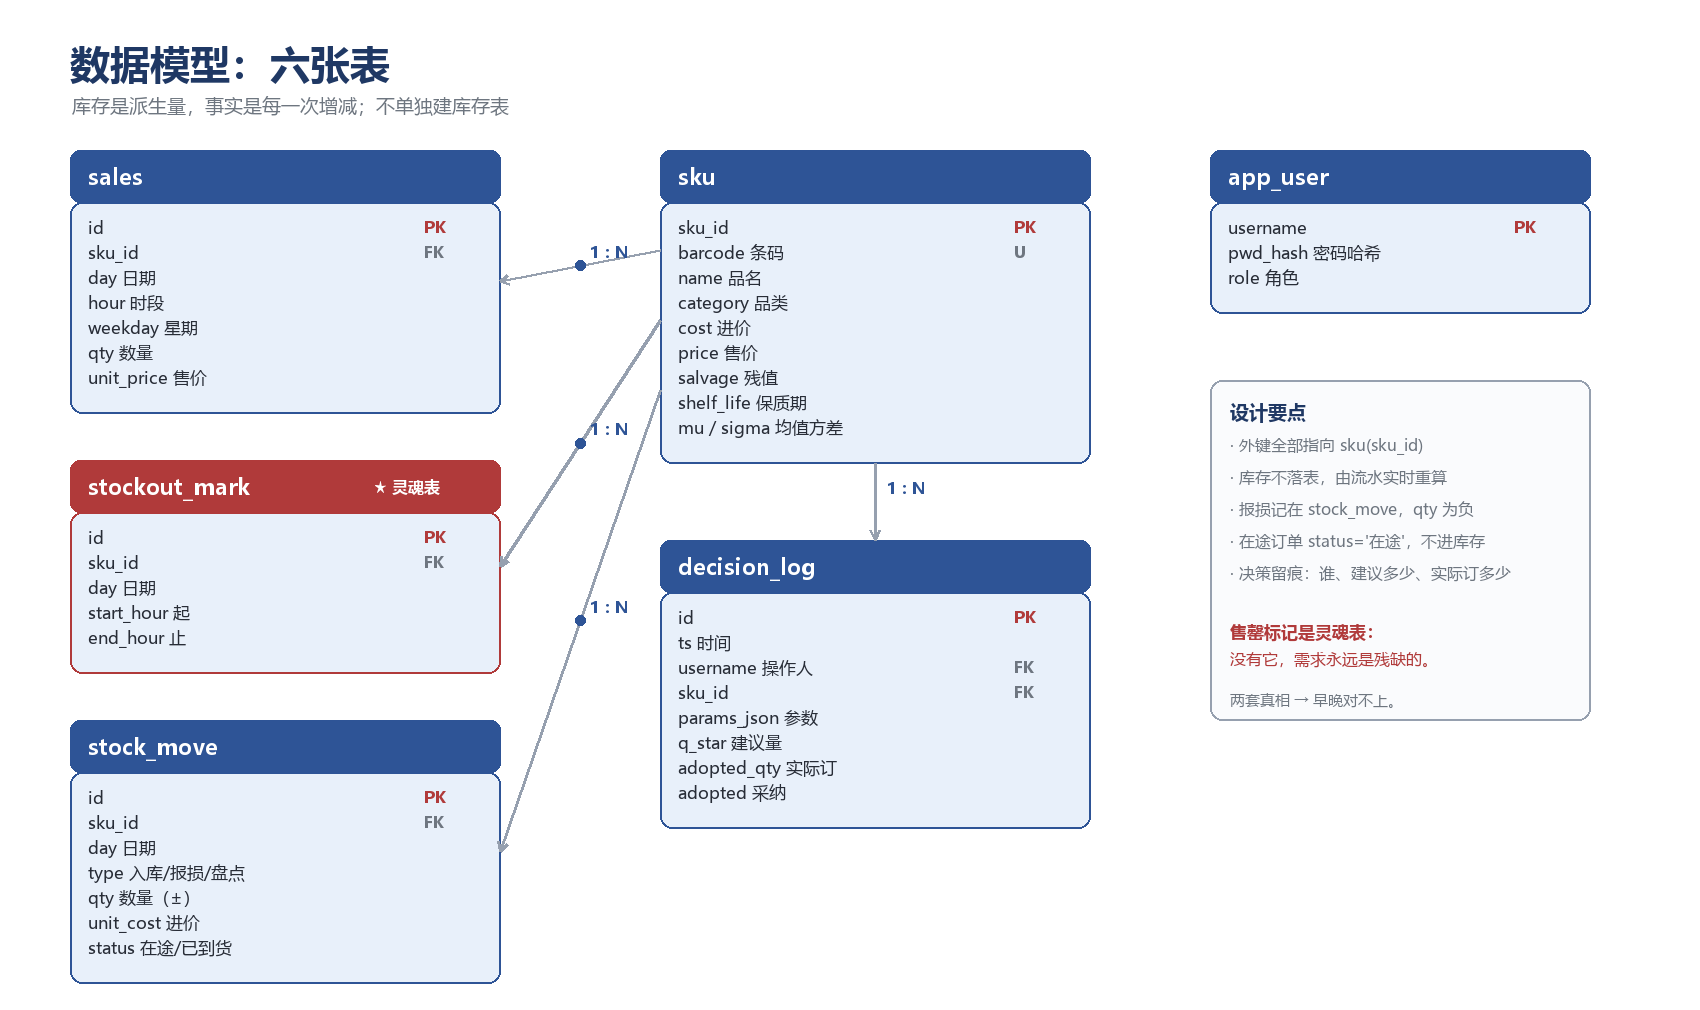
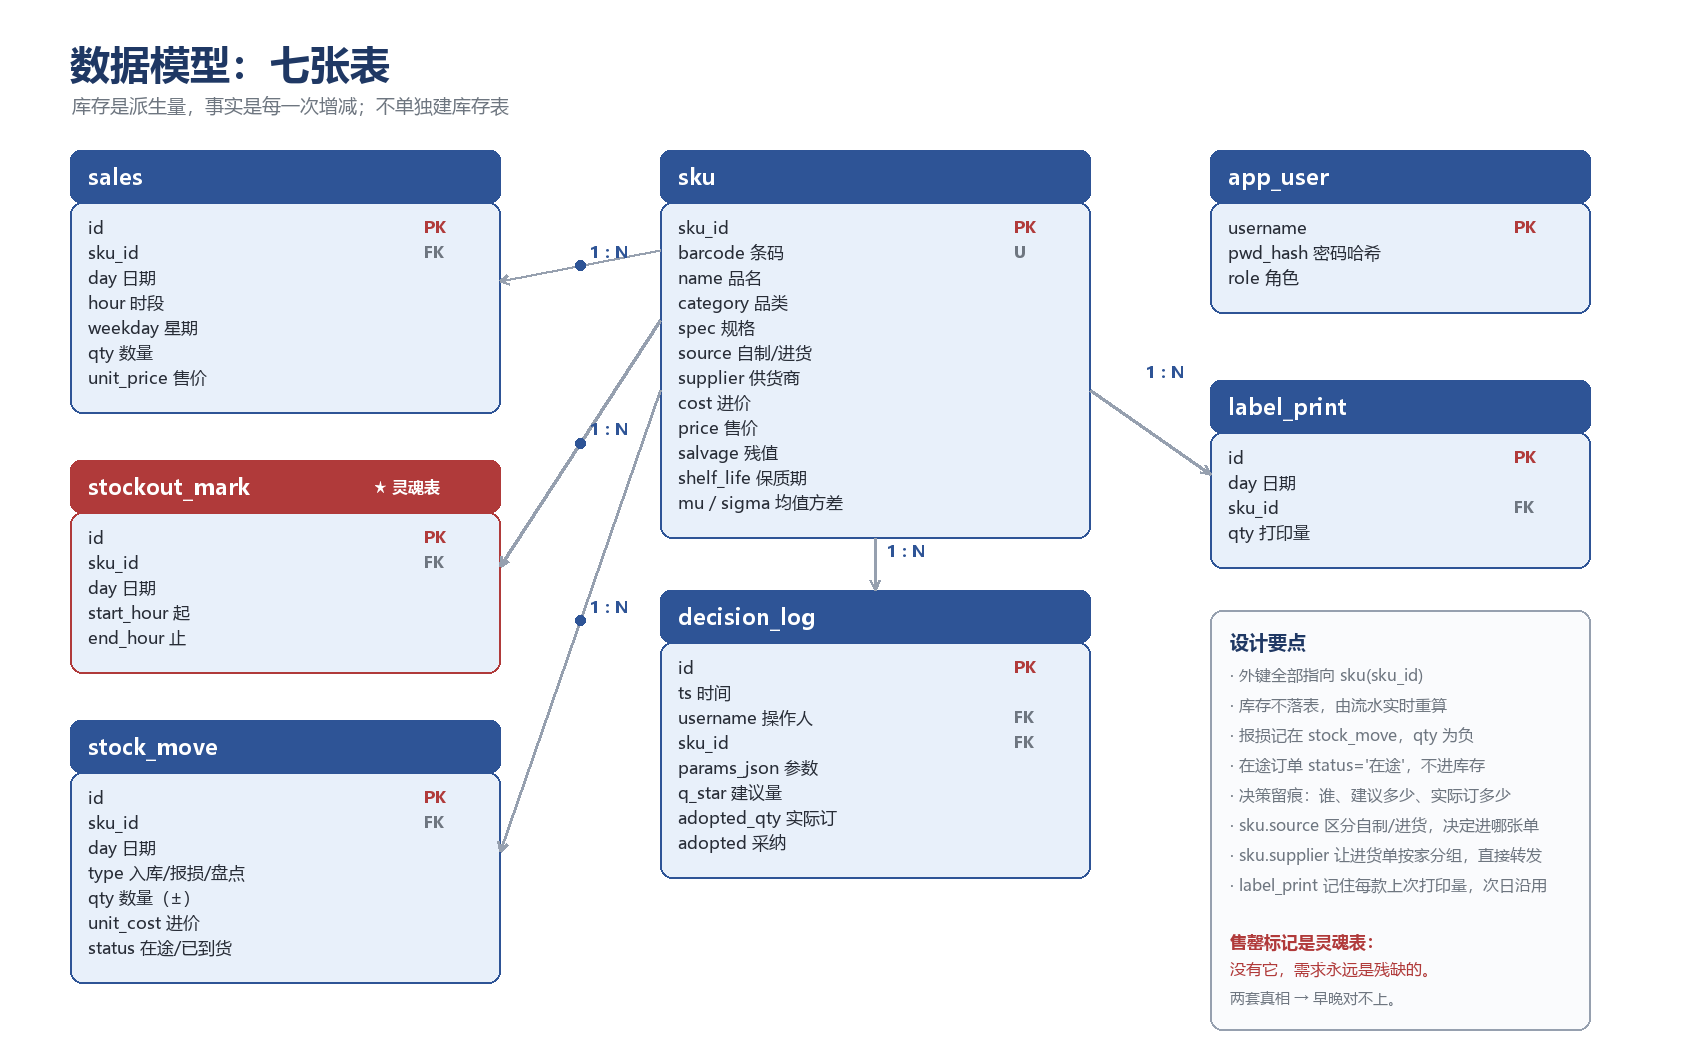
docs: IPO/ER/流程图同步到八页（补建档导入、供货商、标签打印）

diff --git a/scripts/draw_diagrams.py b/scripts/draw_diagrams.py
@@ -69,35 +69,38 @@ def chip(d, right, y, s, fill, fg):
 
 
 def draw_ipo():
-    W, H = 1680, 1030
+    W, H = 1680, 1220
     img = Image.new("RGB", (W, H), WHITE)
     d = ImageDraw.Draw(img)
 
-    d.text((70, 34), "IPO 模型：订货决策系统的八页实现", font=f(FB, 40), fill=NAVY)
+    d.text((70, 34), "IPO 模型：订货决策系统的八个页面", font=f(FB, 40), fill=NAVY)
     d.text((72, 90), "输入 → 处理 → 输出　三列是整体映射，不是逐行对应；框右上角标的是它落在哪一页",
            font=f(FR, 18), fill=GREY)
 
-    CW, CH, GAP = 460, 122, 152
+    CW, CH, GAP = 460, 112, 138
     TOP, HEAD = 160, 84
 
     cols = [
-        dict(x=70, title="输入 INPUT", note="三个入口页：收银、记录、设置",
+        dict(x=70, title="输入 INPUT", note="四个入口：收银、导入、收银台账、设置",
              fill=(236, 243, 250), edge=BLUE, chipbg=(219, 231, 247),
-             items=[("扫码流水", "码 → 单品 × 件数 × 时段", "收银页"),
-                    ("到货与报损", "入库 / 在途 / 报损 / 盘点", "记录页"),
-                    ("售罄标记", "哪一款、几点卖光（一键）", "记录页"),
-                    ("商品档案", "进价 / 售价 / 残值 / 保质期", "设置页")]),
+             items=[("结账流水", "扫码入单，或导入历史销售 CSV", "收银 · 导入"),
+                    ("售罄标记", "哪一款、几点卖光（一键）", "收银页"),
+                    ("到货与报损", "入库 / 在途 / 报损 / 盘点", "收银·台账"),
+                    ("商品档案", "分类 / 自制或进货 / 进价售价 / 供货商", "导入 · 设置"),
+                    ("打印记录", "每款上次打了多少枚，次日沿用", "标签页")]),
         dict(x=610, title="处理 PROCESS", note="每天重算：μ → Q* → 建议 → 明日实测 → 回到 μ",
              fill=(240, 247, 240), edge=(58, 118, 78), chipbg=(226, 240, 228),
              items=[("需求补齐", "卖光后的缺口 × 同期时段销量率，还原真实需求", "core/pipeline"),
                     ("基线 + 趋势", "同星期几均值 × 近期趋势 → μ（均值）", "core/pipeline"),
                     ("报童模型", "临界比 → z　　Q* = μ + z·σ", "core/order"),
-                    ("分档与诊断", "数据就绪度三档 + 品类订货偏差", "core/readiness")]),
-        dict(x=1150, title="输出 OUTPUT", note="四个界面：每一框都能在屏幕上点到",
+                    ("分档与诊断", "数据就绪度三档 + 品类订货偏差", "core/readiness"),
+                    ("日结判定", "账实不符 / 剩余偏多 / 提前售罄 + 次日清单", "core/close")]),
+        dict(x=1150, title="输出 OUTPUT", note="五个界面：每一框都能在屏幕上点到",
              fill=(252, 244, 236), edge=GOLD, chipbg=(248, 232, 213),
-             items=[("建议订货量", "保守 / 正常 / 积极 + 报童最优量 Q*", "订货页"),
+             items=[("备货清单", "进货按供货商分组导出，自制出排产单", "今日页"),
+                    ("建议订货量", "保守 / 正常 / 积极 + 报童最优量 Q*", "订货页"),
                     ("错在哪（复盘）", "按建议订会差多少：省多少、代价怎么换", "复盘页"),
-                    ("经营看板", "卖了多少 vs 进了多少、品类偏差、三件事", "看板页"),
+                    ("经营看板", "卖了多少 vs 进了多少、品类偏差", "看板页"),
                     ("标签与条码", "打印标签 → 扫码收银 → 回到输入", "标签页")]),
     ]
 
@@ -114,14 +117,14 @@ def draw_ipo():
             chip(d, x + CW - 12, by + CH - 30, page, c["chipbg"], GREY)
 
     # 两条大箭头：表达“整列流向整列”，而不是逐行对应
-    ay = TOP + HEAD + 16 + CH // 2 + GAP
+    ay = 560
     for x in (534, 1074):
         d.line([(x, ay), (x + 52, ay)], fill=BLUE, width=6)
         d.polygon([(x + 52, ay - 15), (x + 72, ay), (x + 52, ay + 15)], fill=BLUE)
 
     # 反馈回边：决策留痕与实际销量回灌成样本
-    bottom = TOP + HEAD + 16 + 3 * GAP + CH
-    ry = bottom + 62
+    bottom = TOP + HEAD + 16 + 5 * GAP + CH
+    ry = bottom + 70
     d.line([(1150 + CW / 2, bottom), (1150 + CW / 2, ry)], fill=(58, 118, 78), width=4)
     d.line([(1150 + CW / 2, ry), (300, ry)], fill=(58, 118, 78), width=4)
     d.line([(300, ry), (300, bottom + 4)], fill=(58, 118, 78), width=4)
@@ -141,11 +144,11 @@ def draw_ipo():
 
 # ---------------------------------------------------------------- ER
 def draw_er():
-    W, H = 1700, 1010
+    W, H = 1700, 1050
     img = Image.new("RGB", (W, H), WHITE)
     d = ImageDraw.Draw(img)
 
-    d.text((70, 36), "数据模型：六张表", font=f(FB, 40), fill=NAVY)
+    d.text((70, 36), "数据模型：七张表", font=f(FB, 40), fill=NAVY)
     d.text((72, 92), "库存是派生量，事实是每一次增减；不单独建库存表",
            font=f(FR, 19), fill=GREY)
 
@@ -161,15 +164,19 @@ def draw_er():
                                       ("type 入库/报损/盘点", ""), ("qty 数量（±）", ""),
                                       ("unit_cost 进价", ""), ("status 在途/已到货", "")]),
         "sku": (660, 150, 430, [("sku_id", "PK"), ("barcode 条码", "U"), ("name 品名", ""),
-                                ("category 品类", ""), ("cost 进价", ""), ("price 售价", ""),
+                                ("category 品类", ""), ("spec 规格", ""),
+                                ("source 自制/进货", ""), ("supplier 供货商", ""),
+                                ("cost 进价", ""), ("price 售价", ""),
                                 ("salvage 残值", ""), ("shelf_life 保质期", ""),
                                 ("mu / sigma 均值方差", "")]),
-        "decision_log": (660, 540, 430, [("id", "PK"), ("ts 时间", ""),
+        "decision_log": (660, 590, 430, [("id", "PK"), ("ts 时间", ""),
                                          ("username 操作人", "FK"), ("sku_id", "FK"),
                                          ("params_json 参数", ""), ("q_star 建议量", ""),
                                          ("adopted_qty 实际订", ""), ("adopted 采纳", "")]),
         "app_user": (1210, 150, 380, [("username", "PK"), ("pwd_hash 密码哈希", ""),
                                       ("role 角色", "")]),
+        "label_print": (1210, 380, 380, [("id", "PK"), ("day 日期", ""),
+                                         ("sku_id", "FK"), ("qty 打印量", "")]),
     }
 
     geo = {}
@@ -208,19 +215,26 @@ def draw_er():
     arrow(d, (sx + sw / 2, sy + sh), (dx + dw / 2, dy), color=LINE, w=3, head=10)
     d.text((sx + sw / 2 + 12, (sy + sh + dy) / 2 - 24), "1 : N", font=f(FB, 16), fill=BLUE)
 
-    box(d, (1210, 380, 1590, 720), (250, 251, 253), LINE)
-    d.text((1230, 398), "设计要点", font=f(FB, 19), fill=NAVY)
+    lx, ly, lw, lh = geo["label_print"]
+    arrow(d, (sx + sw, sy + sh * 0.62), (lx, ly + lh / 2), color=LINE, w=3, head=10)
+    d.text(((sx + sw + lx) / 2 - 4, sy + sh * 0.62 - 30), "1 : N", font=f(FB, 16), fill=BLUE)
+
+    box(d, (1210, 610, 1590, 1030), (250, 251, 253), LINE)
+    d.text((1230, 628), "设计要点", font=f(FB, 19), fill=NAVY)
     notes = ["· 外键全部指向 sku(sku_id)",
              "· 库存不落表，由流水实时重算",
              "· 报损记在 stock_move，qty 为负",
              "· 在途订单 status='在途'，不进库存",
-             "· 决策留痕：谁、建议多少、实际订多少"]
+             "· 决策留痕：谁、建议多少、实际订多少",
+             "· sku.source 区分自制/进货，决定进哪张单",
+             "· sku.supplier 让进货单按家分组，直接转发",
+             "· label_print 记住每款上次打印量，次日沿用"]
     for i, s in enumerate(notes):
-        d.text((1230, 434 + i * 32), s, font=f(FR, 16), fill=GREY)
+        d.text((1230, 664 + i * 30), s, font=f(FR, 16), fill=GREY)
 
-    d.text((1230, 620), "售罄标记是灵魂表：", font=f(FB, 17), fill=ACCENT)
-    d.text((1230, 648), "没有它，需求永远是残缺的。", font=f(FR, 16), fill=ACCENT)
-    d.text((1230, 690), "两套真相 → 早晚对不上。", font=f(FR, 15), fill=GREY)
+    d.text((1230, 930), "售罄标记是灵魂表：", font=f(FB, 17), fill=ACCENT)
+    d.text((1230, 958), "没有它，需求永远是残缺的。", font=f(FR, 16), fill=ACCENT)
+    d.text((1230, 988), "两套真相 → 早晚对不上。", font=f(FR, 15), fill=GREY)
 
     img.save(OUT / "er.png")
     print("er.png")
@@ -228,7 +242,7 @@ def draw_er():
 
 # ---------------------------------------------------------------- 流程
 def draw_flow():
-    W, H = 1700, 860
+    W, H = 1700, 920
     img = Image.new("RGB", (W, H), WHITE)
     d = ImageDraw.Draw(img)
 
@@ -246,10 +260,10 @@ def draw_flow():
         for i, s in enumerate(subs):
             d.text((x + 14, y + 40 + i * 21), s, font=fs, fill=GREY)
 
-    node(60, 150, "① 进货入库", ["到货量、进价"], GREYF, GREY)
+    node(60, 150, "① 建档与到货", ["商品档案 → 分类/来源/价格", "到货量、进价入账"], GREYF, GREY)
     node(420, 150, "② 顾客要买", ["扫一件标签码"], GREYF, GREY)
     node(780, 150, "③ 还有货吗？", ["库存 > 0"], WHITE, BLUE)
-    node(1140, 150, "④ 开单扣库存", ["成交，记一条销售"], GREYF, GREY)
+    node(1140, 150, "④ 开单扣库存", ["按档案价成交，记销售"], GREYF, GREY)
 
     node(60, 380, "⑨ 报损登记", ["过期 / 损坏"], GREYF, GREY, dash=True)
     node(420, 380, "⑥ 需求补齐", ["缺货时长 × 同期时段率"], LIGHT, BLUE)
@@ -281,8 +295,8 @@ def draw_flow():
     d.text((1092, 398), "汇总", font=f(FR, 14), fill=GOLD)
 
     # 次日到货，回到 ①
-    d.line([(1440, 646), (1580, 646), (1580, 108), (210, 108)], fill=LINE, width=3)
-    arrow(d, (210, 108), (210, 144))
+    d.line([(1440, 646), (1580, 646), (1580, 130), (210, 130)], fill=LINE, width=3)
+    arrow(d, (210, 130), (210, 146))
     d.text((1596, 640), "次日", font=f(FB, 16), fill=GREY)
     d.text((1596, 664), "到货", font=f(FR, 14), fill=GREY)
 
@@ -291,6 +305,9 @@ def draw_flow():
     d.text((84, 744), "整个项目只做一件事：", font=f(FB, 20), fill=NAVY)
     d.text((300, 742), "销量只记录成交，卖光的那几小时是空白；把空白补上，需求才第一次看得见。",
            font=f(FR, 21), fill=NAVY)
+
+    d.text((84, 838), "建档在导入页：一次建完全部商品（分类、自制还是进货、进价售价、供货商），"
+                      "① 的到货口径与 ④ 的成交价都由它来。", font=f(FR, 15), fill=GREY)
 
     img.save(OUT / "flow.png")
     print("flow.png")
